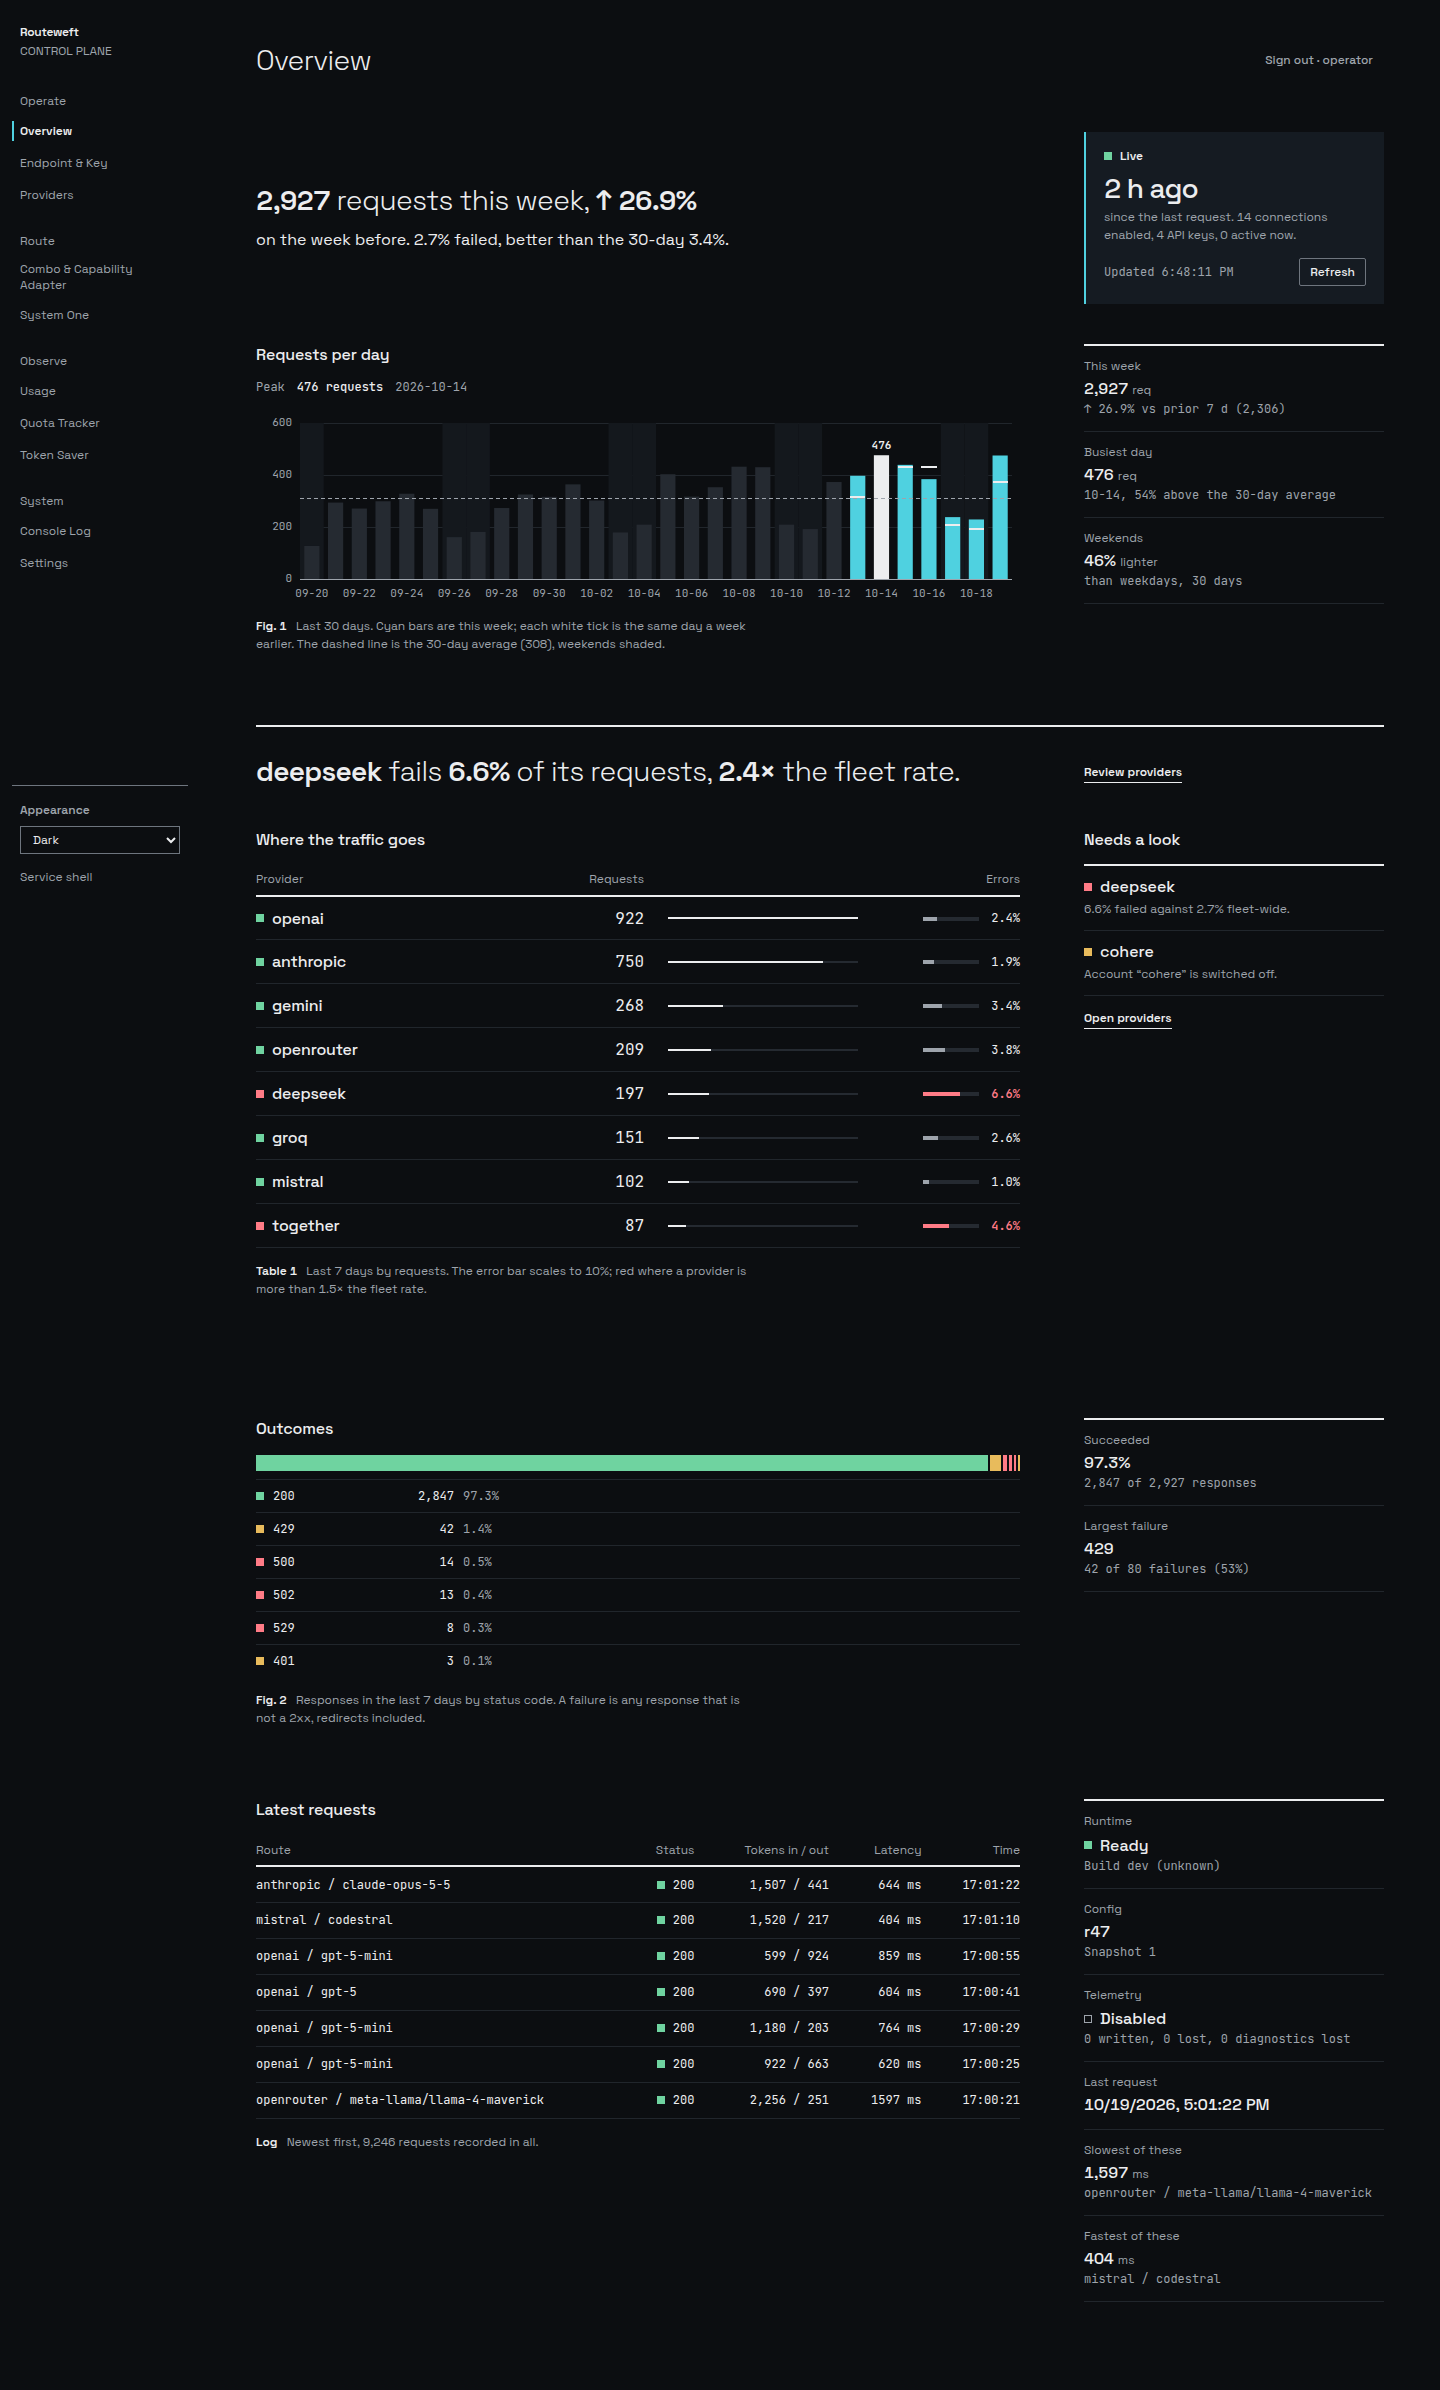
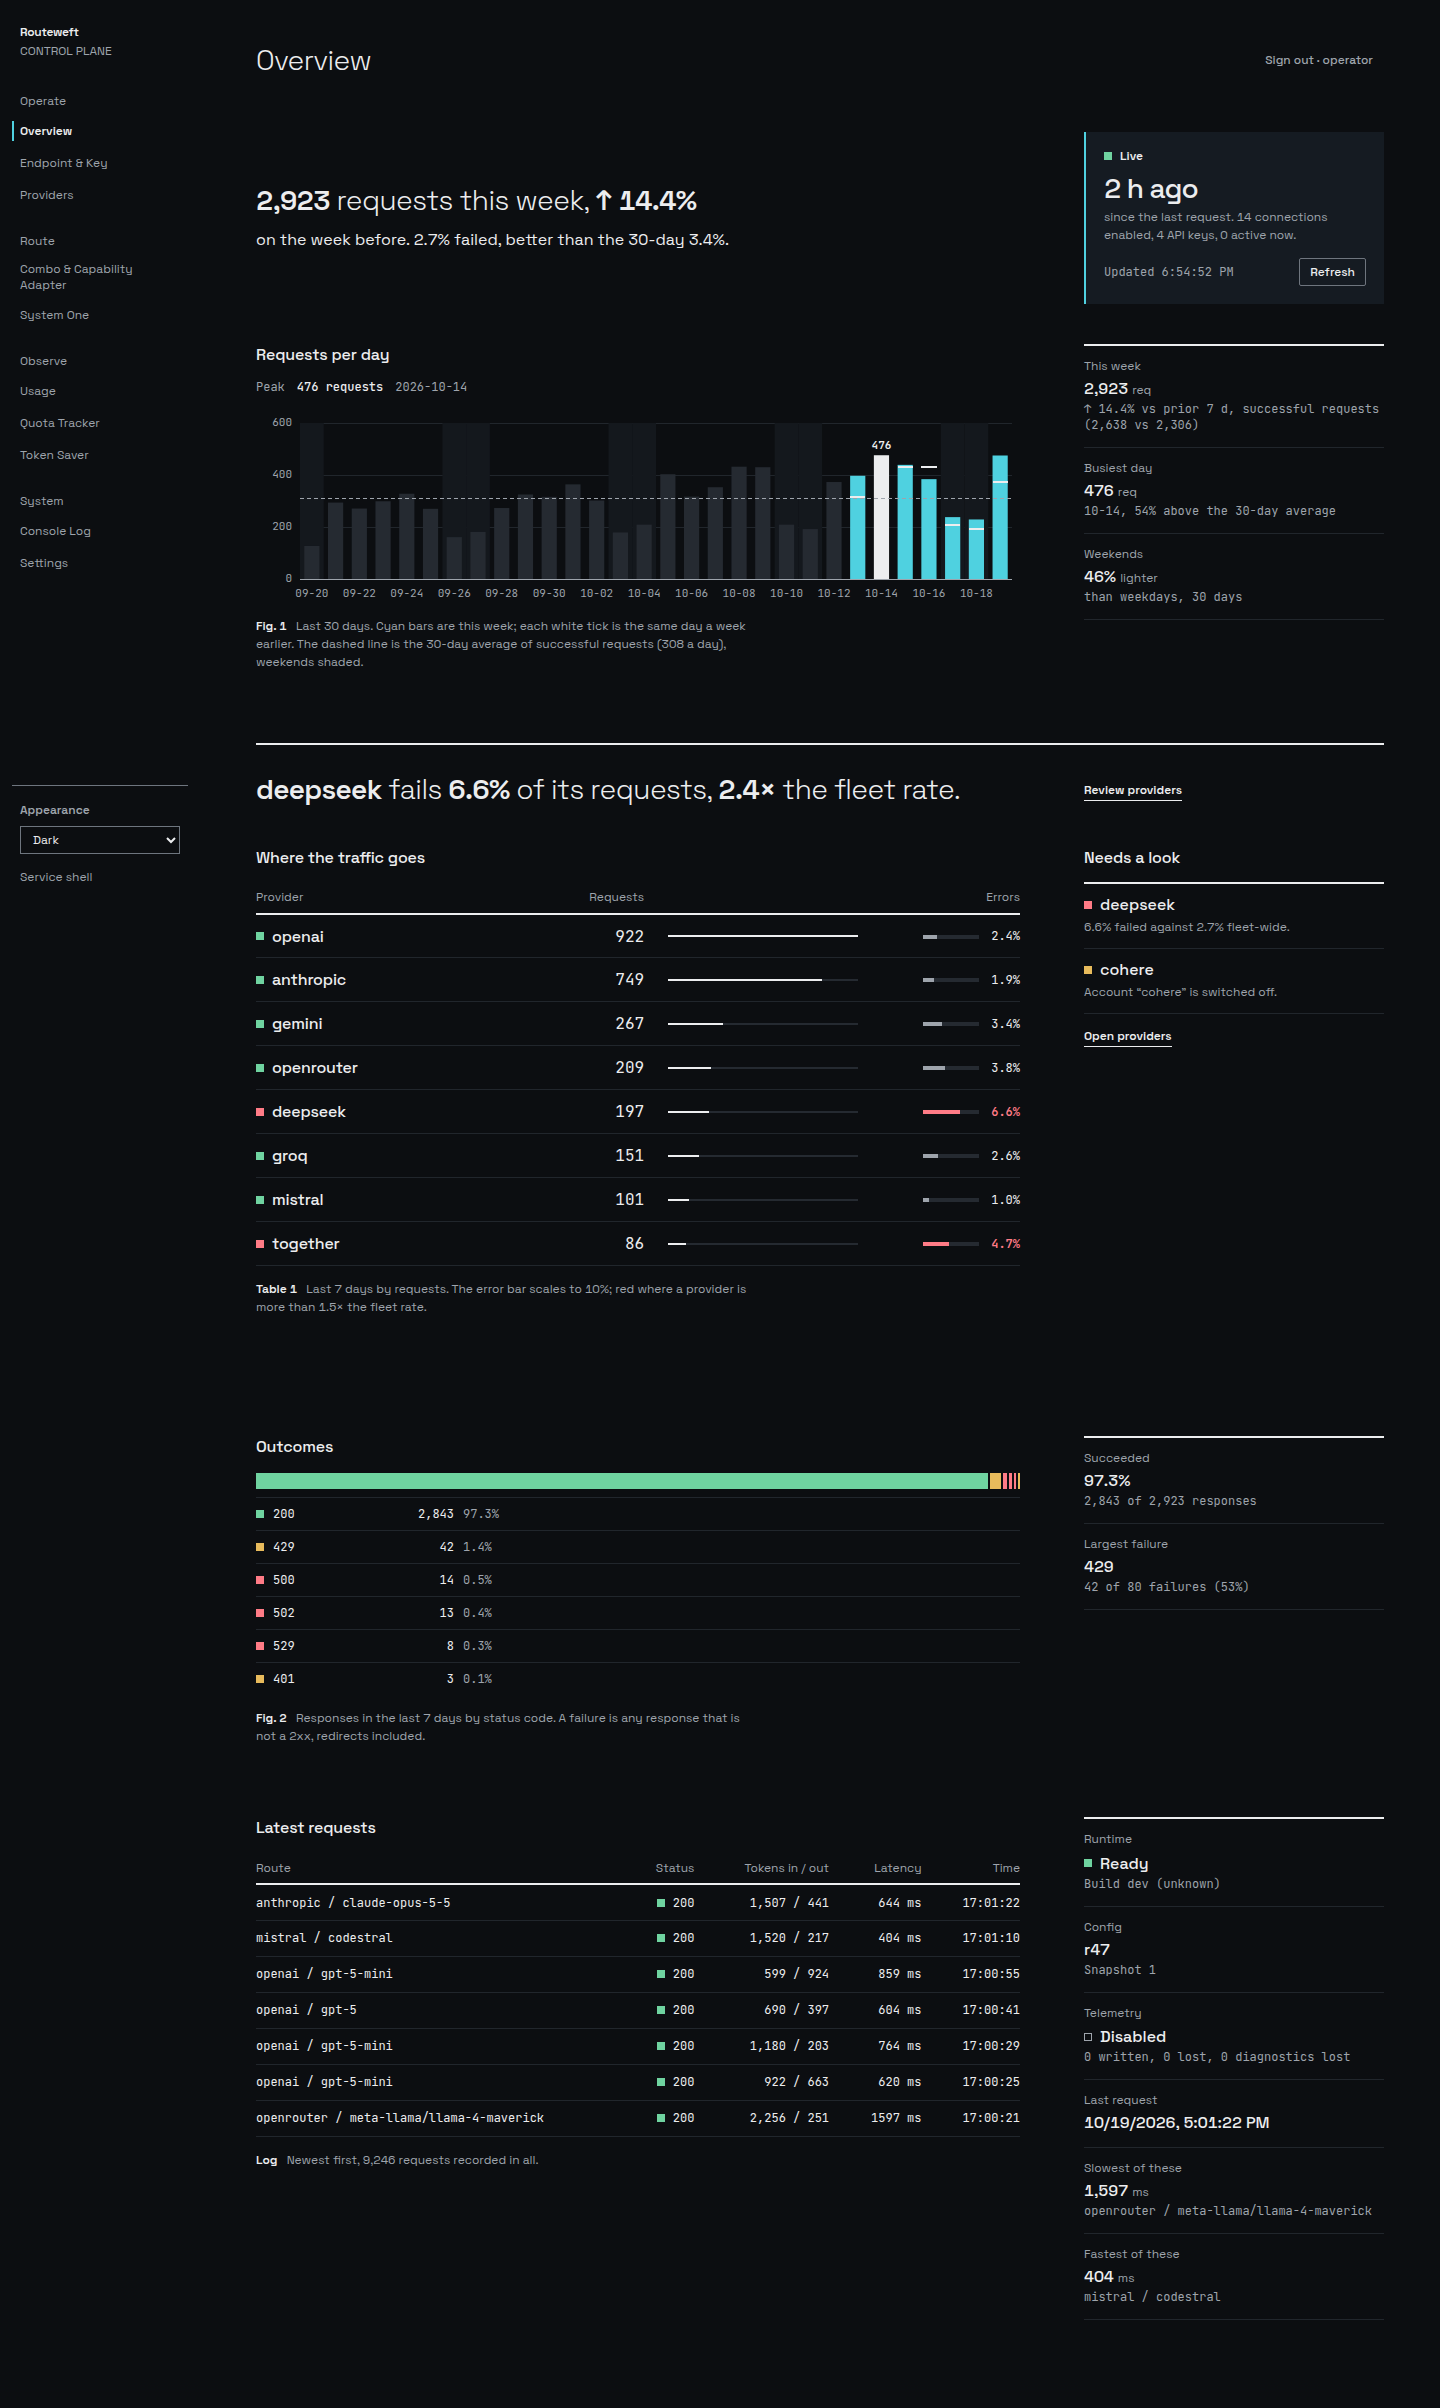
fix(ui): compare like with like and use calendar windows for week-over-week and averages
- the week-over-week percentage divides this week's successful requests by the week before's (both from the daily rollup), and the note says so
- the daily series omits days without attributed 2xx traffic; fill them with zeros so this week, the week before and the dashed average are calendar windows
- the weekend ratio starts at the first recorded day, so zero-filled days before the install are not treated as observations
- smoke freezes the page clock so the fixture's dates stay inside the windows; unit tests cover denseDays and periodDays

diff --git a/ui/src/Overview.tsx b/ui/src/Overview.tsx
@@ -1,7 +1,7 @@
 import { BarChart, EditorialSkeleton, ErrorNotice, StackedBar } from './kit'
 import { useOverviewData } from './data'
 import { Caption, Dot, ErrCell, Fact, Main, Margin, Row, Statement, Status } from './editorial'
-import { ago, badRate, clock, delta, isWeekend, num, outlier, pct, priorWeek, failureStatuses, providerTone, rate, share, statusTone, sum, weekendLighter } from './format'
+import { ago, badRate, clock, delta, denseDays, isWeekend, num, outlier, pct, priorWeek, failureStatuses, providerTone, rate, share, statusTone, sum, utcDay, weekendLighter } from './format'
 
 type Props = { onUnauthorized: () => void }
 
@@ -32,18 +32,22 @@ export function Overview({ onUnauthorized }: Props) {
   if (overview.telemetry.degraded) attention.push({ key: 'telemetry', tone: 'warn', title: 'Usage telemetry', text: 'Degraded: some accounting may be delayed or incomplete.' })
   if (overview.traffic.errors > 0 && !flagged) attention.push({ key: 'failed', tone: 'warn', title: 'Failed requests', text: `${num(overview.traffic.errors)} recorded.` })
 
-  const series = month?.series ?? []
+  // The API omits days without attributed 2xx traffic; fill them so every window below is a calendar window.
+  const series = month && month.series.length > 0 ? denseDays(month.series, 30, utcDay()) : []
   const n = series.length
   const points = series.map(day => ({ label: day.day, short: day.day.slice(5), value: day.requests }))
   const prior = priorWeek(series)
   const thisWeek = sum(series.slice(-7), 'requests')
   const lastWeek = prior ? sum(prior, 'requests') : undefined
-  const up = t ? delta(t.requests, lastWeek) : null
+  // Both sides come from the daily rollup (attributed 2xx), so the percentage compares like with like.
+  const up = t ? delta(thisWeek, lastWeek) : null
   const m = month?.totals
   const err30 = m ? rate(m.errors, m.requests) : 0
-  const average = m && n ? m.requests / n : 0
+  const average = n ? sum(series, 'requests') / n : 0
   const peak = n ? series.reduce((best, day) => (day.requests > best.requests ? day : best), series[0]) : null
-  const lighter = weekendLighter(series)
+  // Zero-filled days before the first recorded day are not observations, so the weekend ratio starts there.
+  const firstRecorded = month?.series[0]?.day
+  const lighter = firstRecorded ? weekendLighter(series.filter(day => day.day >= firstRecorded)) : null
   const ghost = (index: number) => (prior && index >= n - 7 ? series[index - 7].requests : null)
   const failures = week ? failureStatuses(week.statuses) : []
   const shown = events.slice(0, 7)
@@ -74,12 +78,12 @@ export function Overview({ onUnauthorized }: Props) {
       <Main title="Requests per day">
         <figure className="ed-figure">
           <BarChart points={points} unit="requests" title="Requests per day, 30 days" shade={isWeekend} current={index => index >= n - 7} ghost={ghost} reference={{ value: average }} />
-          <figcaption><Caption kicker="Fig. 1">Last 30 days. Cyan bars are this week; each white tick is the same day a week earlier. The dashed line is the 30-day average ({num(average)}), weekends shaded.</Caption></figcaption>
+          <figcaption><Caption kicker="Fig. 1">Last 30 days. Cyan bars are this week; each white tick is the same day a week earlier. The dashed line is the 30-day average of successful requests ({num(average)} a day), weekends shaded.</Caption></figcaption>
         </figure>
       </Main>
       <Margin>
         <dl className="ed-facts">
-          <Fact label="This week" value={<>{num(t.requests)} <small>req</small></>} note={up !== null ? `${up >= 0 ? '↑' : '↓'} ${Math.abs(up).toFixed(1)}% vs prior 7 d (${num(lastWeek ?? 0)})` : `${num(thisWeek)} in the latest 7 days`} />
+          <Fact label="This week" value={<>{num(t.requests)} <small>req</small></>} note={up !== null ? `${up >= 0 ? '↑' : '↓'} ${Math.abs(up).toFixed(1)}% vs prior 7 d, successful requests (${num(thisWeek)} vs ${num(lastWeek ?? 0)})` : `${num(thisWeek)} successful requests in the latest 7 days`} />
           <Fact label="Busiest day" value={<>{num(peak.requests)} <small>req</small></>} note={`${peak.day.slice(5)}, ${Math.round((peak.requests / Math.max(1, average) - 1) * 100)}% above the 30-day average`} />
           <Fact label="Weekends" value={lighter === null || Math.abs(lighter) < 1 ? '—' : <>{Math.abs(Math.round(lighter))}% <small>{lighter >= 0 ? 'lighter' : 'heavier'}</small></>} note={lighter === null ? 'needs weekday and weekend days' : Math.abs(lighter) < 1 ? 'about the same as weekdays' : `than weekdays, ${n} days`} />
         </dl>

diff --git a/ui/src/Usage.tsx b/ui/src/Usage.tsx
@@ -1,7 +1,7 @@
 import { useCallback, useEffect, useState } from 'react'
 import { BarChart, EditorialSkeleton, EmptyState, ErrorNotice, Sparkline, StackedBar } from './kit'
 import { Caption, ErrCell, Fact, Main, Margin, Row, Statement, Status } from './editorial'
-import { badRate, compact, delta, num, outlier, pct, priorWeek, failureStatuses, providerTone, rate, share, statusTone, sum, type Summary, type UsageEvent } from './format'
+import { badRate, compact, delta, denseDays, num, outlier, pct, priorWeek, failureStatuses, periodDays, providerTone, rate, share, statusTone, sum, utcDay, type Summary, type UsageEvent } from './format'
 
 type Props = { onUnauthorized: () => void }
 
@@ -42,9 +42,12 @@ export function Usage({ onUnauthorized }: Props) {
 
   const first = loading && !summary
   const t = summary?.totals
-  const series = summary?.series ?? []
+  // Days without attributed 2xx traffic are absent from the API series; fill them so windows and averages are calendar-based.
+  const raw = summary?.series ?? []
+  const series = period !== '24h' && raw.length > 0 ? denseDays(raw, periodDays(period, raw, utcDay()), utcDay()) : raw
   const n = series.length
-  const days = Math.max(1, period === '24h' ? 1 : period === '7d' ? 7 : period === '30d' ? 30 : n)
+  const days = Math.max(1, period === '24h' ? 1 : n || (period === '7d' ? 7 : 30))
+  const dailyAverage = n > 0 ? sum(series, 'requests') / n : 0
   const points = series.map(day => ({ label: day.day, short: day.day.slice(5), value: day.requests }))
   const prior = priorWeek(series)
   const ghost = (index: number) => (prior && index >= n - 7 ? series[index - 7].requests : null)
@@ -83,13 +86,13 @@ export function Usage({ onUnauthorized }: Props) {
           {points.length === 0
             ? <EmptyState reason="No attributed usage in this period.">{period !== 'all' && <button className="button-secondary" type="button" onClick={() => setPeriod('all')}>Show all time</button>}</EmptyState>
             : <figure className="ed-figure usage-chart-panel accent-surface ed-plate">
-              <BarChart points={points} unit="requests" title="Requests per day" current={prior ? (index => index >= n - 7) : undefined} ghost={prior ? ghost : undefined} reference={n > 1 ? { value: t.requests / days } : undefined} />
-              <figcaption><Caption kicker="Fig. 1">{prior ? `Cyan bars are the latest 7 days; each tick is the same day a week earlier. Dashed line: average ${num(t.requests / days)} a day.` : 'One bar per day.'}</Caption></figcaption>
+              <BarChart points={points} unit="requests" title="Requests per day" current={prior ? (index => index >= n - 7) : undefined} ghost={prior ? ghost : undefined} reference={n > 1 ? { value: dailyAverage } : undefined} />
+              <figcaption><Caption kicker="Fig. 1">{prior ? `Cyan bars are the latest 7 days; each tick is the same day a week earlier. Dashed line: average ${num(dailyAverage)} successful requests a day.` : 'One bar per day.'}</Caption></figcaption>
             </figure>}
         </Main>
         <Margin>
           <dl className="ed-facts">
-            <Fact label="Requests" value={<>{num(t.requests)} <small>req</small></>} note={prior ? `${num(thisWeek)} in the latest 7 days, ${delta(thisWeek, lastWeek) === null ? 'no prior week' : `${(delta(thisWeek, lastWeek) ?? 0) >= 0 ? '↑' : '↓'} ${Math.abs(delta(thisWeek, lastWeek) ?? 0).toFixed(1)}% vs prior 7 d`}` : `avg ${num(t.requests / days)} a day`} />
+            <Fact label="Requests" value={<>{num(t.requests)} <small>req</small></>} note={prior ? `${num(thisWeek)} successful in the latest 7 days, ${delta(thisWeek, lastWeek) === null ? 'no prior week' : `${(delta(thisWeek, lastWeek) ?? 0) >= 0 ? '↑' : '↓'} ${Math.abs(delta(thisWeek, lastWeek) ?? 0).toFixed(1)}% vs prior 7 d`}` : `avg ${num(t.requests / days)} a day`} />
             <Fact label="Tokens" value={<>{compact(tokens)} <small>in + out</small></>} note={`input ${num(t.inputTokens)}, output ${num(t.outputTokens)}`} />
             <Fact label="Cache" value={<>{pct(hit, 0)} <small>of input</small></>} note={`read ${num(t.cacheReadTokens)}, write ${num(t.cacheWriteTokens)}`} />
             <Fact label="Latency" value={<>{t.avgDurationMs !== undefined ? num(t.avgDurationMs) : '—'} <small>ms avg</small></>} note={`TTFT ${t.avgTtftMs !== undefined ? `${num(t.avgTtftMs)} ms` : '—'}`} />

diff --git a/ui/src/format.test.ts b/ui/src/format.test.ts
@@ -1,6 +1,6 @@
 import assert from 'node:assert/strict'
 import { test } from 'node:test'
-import { ago, badRate, compact, delta, isWeekend, outlier, pct, priorWeek, providerTone, rate, failureStatuses, isFailure, share, statusTone, topByRequests, weekendLighter, type Day, type Summary } from './format.ts'
+import { ago, badRate, compact, delta, isWeekend, outlier, pct, priorWeek, providerTone, rate, denseDays, failureStatuses, isFailure, periodDays, utcDay, share, statusTone, topByRequests, weekendLighter, type Day, type Summary } from './format.ts'
 
 test('compact keeps small numbers exact and abbreviates large ones', () => {
   assert.equal(compact(950), '950')
@@ -114,4 +114,28 @@ test('a failure is any non-2xx response, the same set the API counts as errors',
   assert.equal(isFailure(204), false)
   assert.equal(isFailure('199'), true)
   assert.equal(isFailure(302), true)
+})
+
+test('denseDays fills absent days with zeros so windows are calendar windows', () => {
+  const series = [day('2026-10-17', 40), day('2026-10-19', 60)]
+  const dense = denseDays(series, 5, '2026-10-19')
+  assert.deepEqual(dense.map(d => d.day), ['2026-10-15', '2026-10-16', '2026-10-17', '2026-10-18', '2026-10-19'])
+  assert.deepEqual(dense.map(d => d.requests), [0, 0, 40, 0, 60])
+  assert.equal(dense.reduce((total, d) => total + d.requests, 0) / dense.length, 20)
+  assert.equal(denseDays([], 3, '2026-10-19').length, 3)
+})
+
+test('denseDays keeps a day recorded after the end date instead of dropping it', () => {
+  const dense = denseDays([day('2026-10-20', 9)], 2, '2026-10-19')
+  assert.deepEqual(dense.map(d => d.day), ['2026-10-19', '2026-10-20'])
+  assert.equal(dense[1].requests, 9)
+})
+
+test('periodDays counts calendar days, including a quiet history for all time', () => {
+  assert.equal(periodDays('24h', [], '2026-10-19'), 1)
+  assert.equal(periodDays('7d', [], '2026-10-19'), 7)
+  assert.equal(periodDays('30d', [], '2026-10-19'), 30)
+  assert.equal(periodDays('all', [day('2026-10-10', 5)], '2026-10-19'), 10)
+  assert.equal(periodDays('all', [], '2026-10-19'), 1)
+  assert.match(utcDay(new Date('2026-10-19T23:30:00Z')), /^2026-10-19$/)
 })

diff --git a/ui/src/format.ts b/ui/src/format.ts
@@ -120,3 +120,35 @@ export function isFailure(status: number | string) {
 export function failureStatuses<T extends { key: string; requests: number }>(statuses: T[]) {
   return statuses.filter(item => isFailure(item.key)).sort((a, b) => b.requests - a.requests)
 }
+
+// ---- calendar days ----
+// The daily series is GROUP BY day over usage_daily, so a day without attributed 2xx traffic is absent, not zero.
+// Windows (this week, the week before, averages) must be calendar windows, so absent days are filled with zeros.
+export const utcDay = (date = new Date()) => date.toISOString().slice(0, 10)
+
+function shiftDay(day: string, offset: number) {
+  const date = new Date(`${day}T00:00:00Z`)
+  date.setUTCDate(date.getUTCDate() + offset)
+  return date.toISOString().slice(0, 10)
+}
+
+// Whole calendar days a period covers, ending today (inclusive). 'all' runs from the first recorded day.
+export function periodDays(period: string, series: Day[], today: string) {
+  if (period === '24h') return 1
+  if (period === '7d') return 7
+  if (period === '30d') return 30
+  if (series.length === 0) return 1
+  const first = new Date(`${series[0].day}T00:00:00Z`).getTime()
+  const last = new Date(`${today}T00:00:00Z`).getTime()
+  return Math.max(1, Math.round((last - first) / 86400000) + 1)
+}
+
+// `count` consecutive days ending on `endDay` (or on the latest recorded day, if that is later), zero-filled.
+export function denseDays(series: Day[], count: number, endDay: string): Day[] {
+  const byDay = new Map(series.map(day => [day.day, day]))
+  const latest = series.reduce((best, day) => (day.day > best ? day.day : best), endDay)
+  return Array.from({ length: count }, (_, index) => {
+    const day = shiftDay(latest, index - (count - 1))
+    return byDay.get(day) ?? { day, requests: 0, inputTokens: 0, outputTokens: 0, cacheReadTokens: 0, cacheWriteTokens: 0 }
+  })
+}
